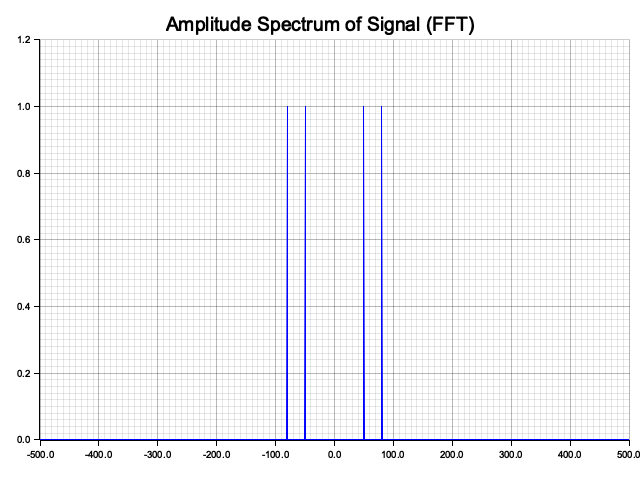
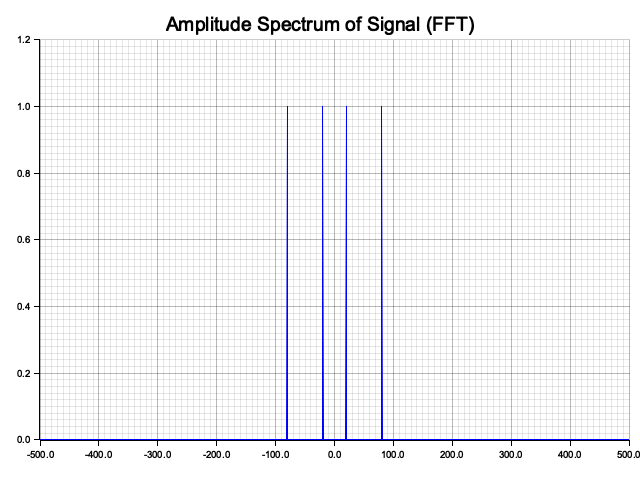
debugging sampling rate issue

diff --git a/src/main.rs b/src/main.rs
@@ -8,7 +8,7 @@ fn main() -> Result<(), Box<dyn std::error::Error>> {
     // Defining current static controls
     let curve_points: usize = 1000;
     let sampling_rate: f64 = 0.001;
-    let frequency1: f64 = 50.0;
+    let frequency1: f64 = 20.0;
     let frequency2: f64 = 80.0;
 
 
@@ -66,7 +66,7 @@ fn main() -> Result<(), Box<dyn std::error::Error>> {
     
     let spectrum_shifted: Vec<Complex<f64>> = fft_shift(&spectrum);
 
-    let frequencies: Vec<f64> = (-(curve_points as i64) / 2..curve_points as i64 / 2)
+    let frequencies: Vec<f64> = (-(curve_points as i64) / 2..(curve_points as i64) / 2)
         .map(|i| (i as f64) * (sampling_rate * curve_points as f64))
         .collect();
     
